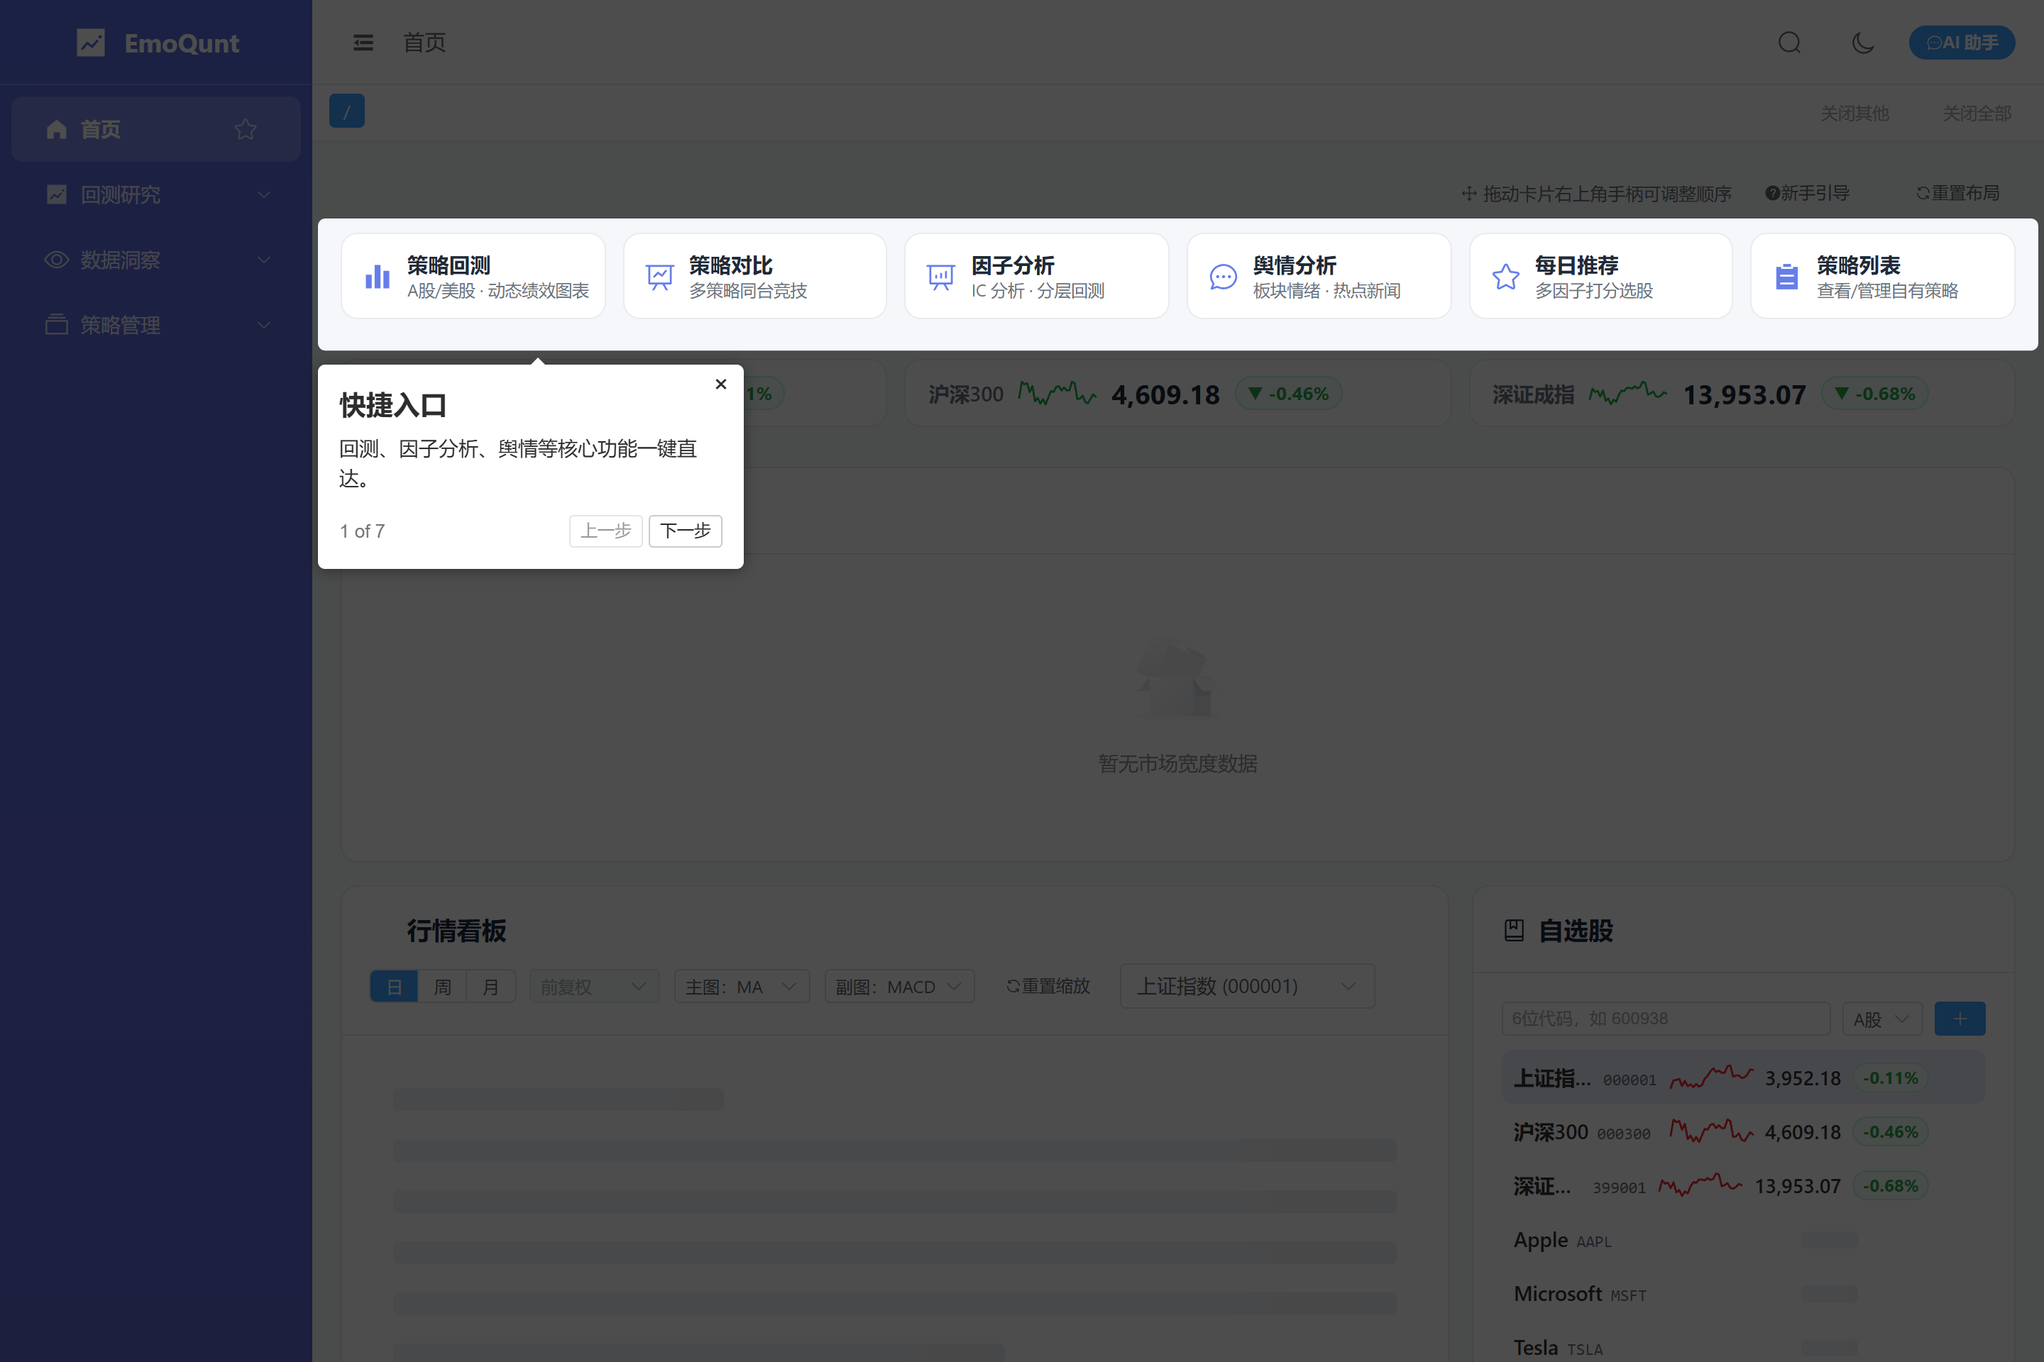
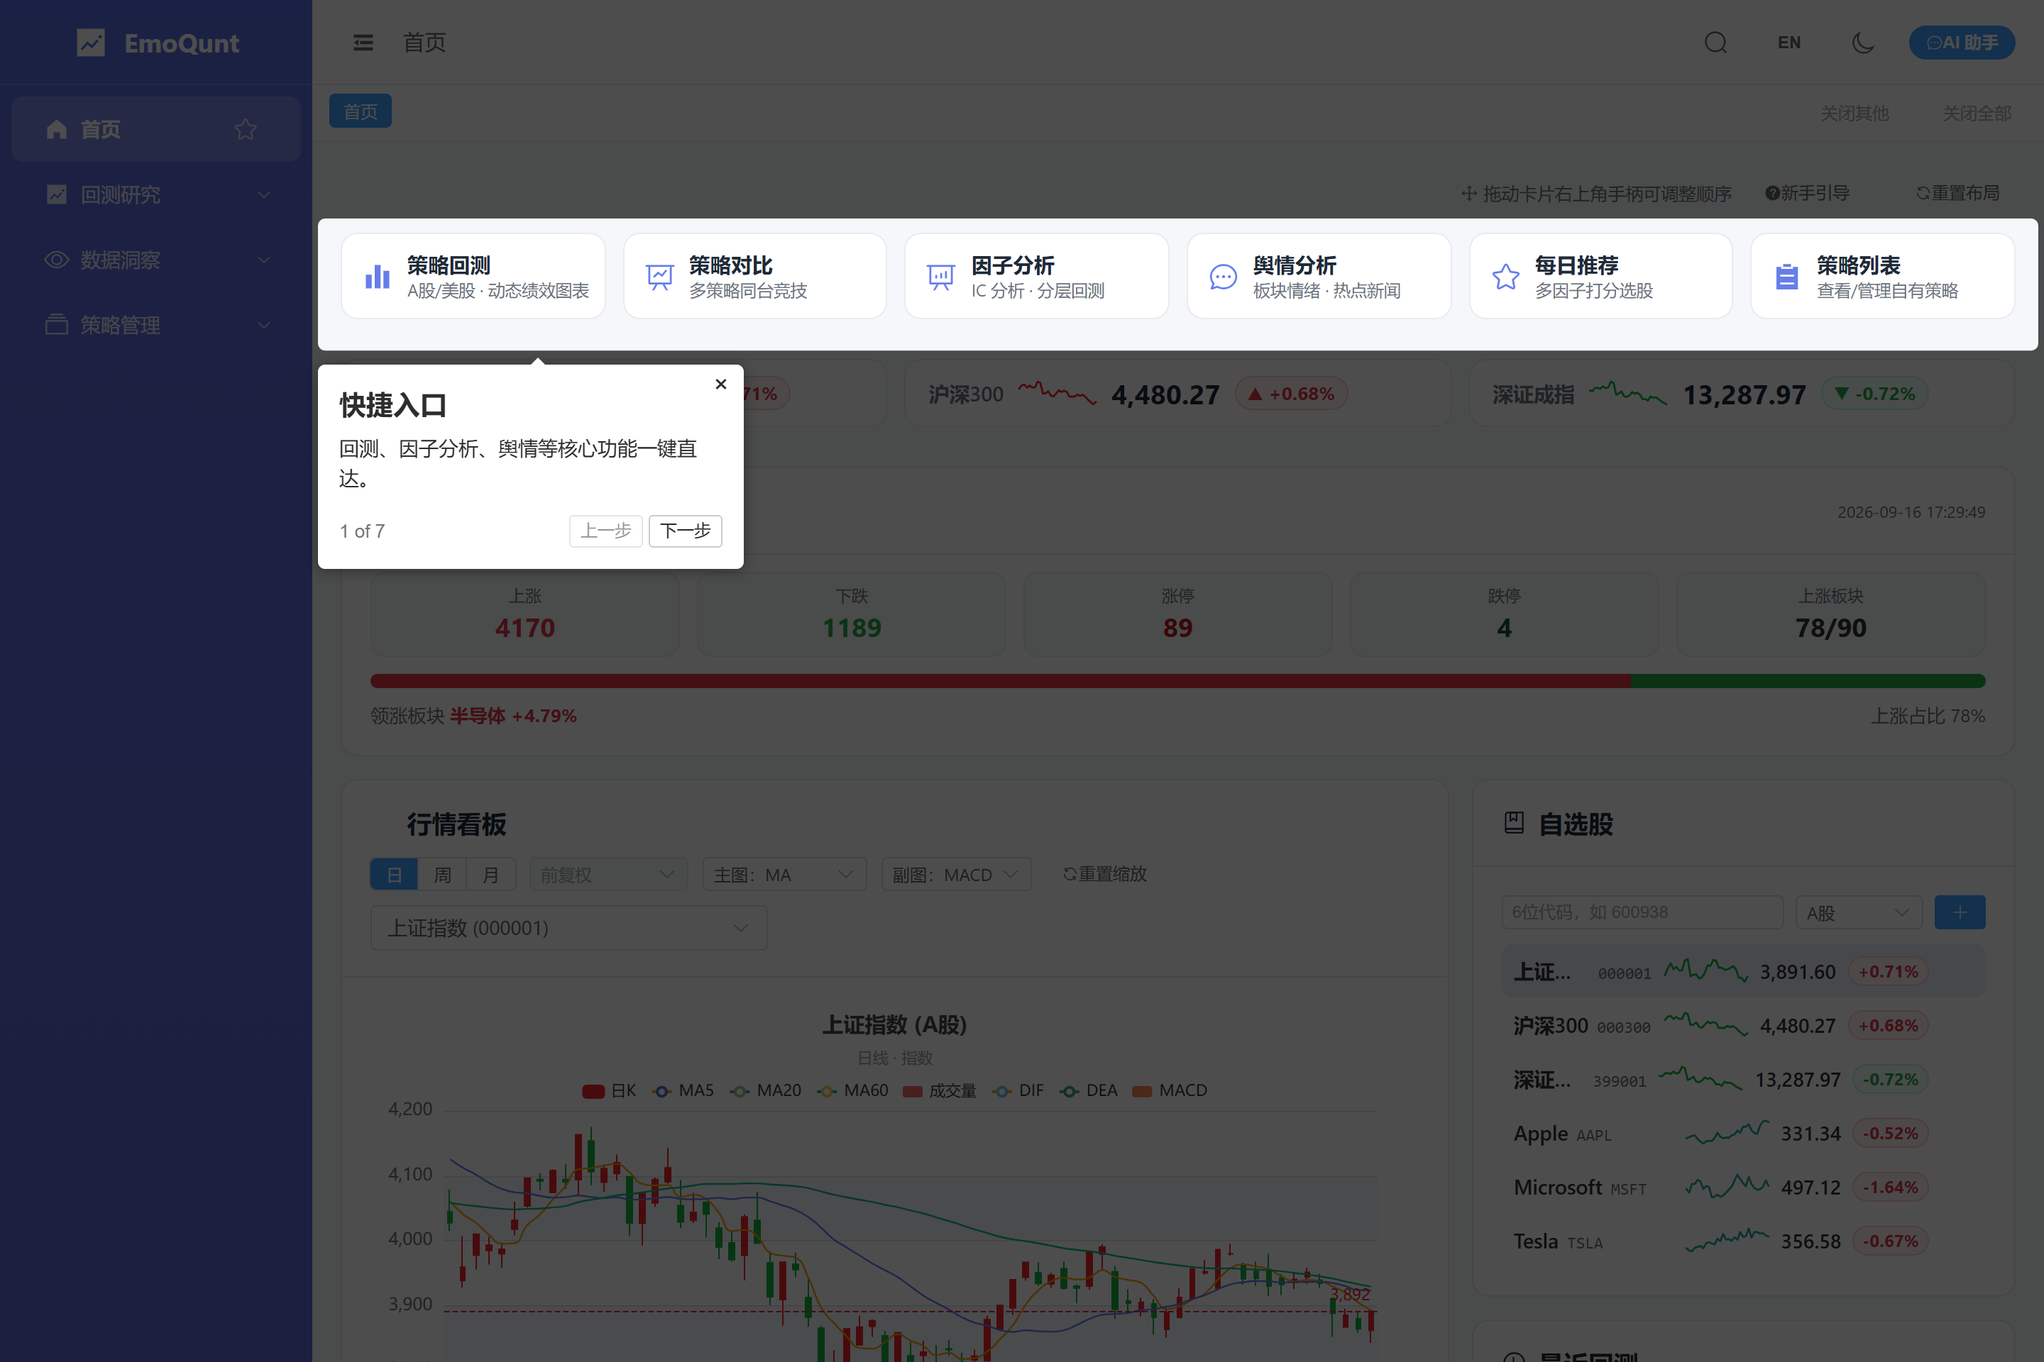
docs(readme): 界面双语后截图全量重拍——中文版覆盖原图（含顶栏语言切换新 UI），英文版新增 *-en.png 套图并切换引用；_capture.py 支持 --lang en（cookie 切语言 + 双语选择器字典），两版截图均以真实行情采集

diff --git a/docs/screenshots/_capture.py b/docs/screenshots/_capture.py
@@ -1,11 +1,15 @@
 """README 截图采集脚本：用系统 Edge 无头浏览器访问本机 FastAPI，截取新版界面。
 
 用法:
-    conda run -n qdt python docs/screenshots/_capture.py           # 全量（含真实回测）
-    conda run -n qdt python docs/screenshots/_capture.py --quick   # 仅首页/K线截图
+    conda run -n qdt python docs/screenshots/_capture.py             # 中文版全量（覆盖默认文件名）
+    conda run -n qdt python docs/screenshots/_capture.py --lang en   # 英文版全量（输出 *-en.png）
+    conda run -n qdt python docs/screenshots/_capture.py --quick     # 仅首页/K线截图
 
-说明：全新浏览器上下文首访 /spa/ 会弹出 driver.js 新手导览（7 步），
-脚本会先截导览，再逐步走完后关闭，保证后续截图无遮罩。
+说明：
+- 全新浏览器上下文首访 /spa/ 会弹出 driver.js 新手导览（7 步），脚本先截导览，
+  再逐步走完后关闭，保证后续截图无遮罩。
+- --lang en 通过 emoqunt_lang cookie 切换界面语言（SPA 首访读 cookie 定语言，
+  Jinja2 页面由中间件读同一 cookie），英文截图统一加 -en 后缀，供 README_EN 引用。
 """
 import sys
 from pathlib import Path
@@ -15,7 +19,50 @@ from playwright.sync_api import sync_playwright
 BASE = "http://127.0.0.1:8000"
 OUT = Path(__file__).parent
 VIEWPORT = {"width": 1440, "height": 960}
+LANG = "en" if "--lang" in sys.argv and "en" in sys.argv else "zh"
+SUFFIX = "-en" if LANG == "en" else ""
 QUICK = "--quick" in sys.argv
+
+# 双语 UI 文案（与 frontend/src/locales/*.ts 保持同步）
+T = {
+    "zh": {
+        "dark": "切换到暗色模式",
+        "light": "切换到亮色模式",
+        "tour_done": "完成",
+        "start_date": "开始日期",
+        "end_date": "结束日期",
+        "run_backtest": "运行回测",
+        "equity_ready": "累计收益曲线",
+        "trades_section": "买卖点标注",
+        "ai_button": "AI 助手",
+        "chat_placeholder": "输入问题，回车发送（Shift+回车换行）",
+        "tool_card_link": "在首页查看主图",
+        "period_week": "周",
+        "period_day": "日",
+    },
+    "en": {
+        "dark": "Switch to dark mode",
+        "light": "Switch to light mode",
+        "tour_done": "Done",
+        "start_date": "Start Date",
+        "end_date": "End Date",
+        "run_backtest": "Run Backtest",
+        "equity_ready": "Cumulative Return",
+        "trades_section": "Backtest K-line · Trade Markers",
+        "ai_button": "AI Assistant",
+        "chat_placeholder": "Ask a question, press Enter to send (Shift+Enter for a new line)",
+        "tool_card_link": "View main chart on Home",
+        "period_week": "W",
+        "period_day": "D",
+    },
+}[LANG]
+
+
+def shot(page, name: str, **kwargs) -> None:
+    """按语言后缀落盘并打印进度。"""
+    path = OUT / f"{name}{SUFFIX}.png"
+    page.screenshot(path=str(path), **kwargs)
+    print(f"{path.name} done")
 
 
 def dismiss_tour(page) -> None:
@@ -25,12 +72,11 @@ def dismiss_tour(page) -> None:
     except Exception:
         return  # 无导览（已看过）
     page.wait_for_timeout(600)
-    page.screenshot(path=str(OUT / "spa-home-tour.png"))
-    print("spa-home-tour.png done")
+    shot(page, "spa-home-tour")
     for _ in range(8):
         if not page.locator(".driver-popover").count():
             break
-        btn = page.locator(".driver-popover-buttons button", has_text="完成")
+        btn = page.locator(".driver-popover-buttons button", has_text=T["tour_done"])
         if btn.count():
             btn.click()
         else:
@@ -51,6 +97,9 @@ def main() -> int:
             browser = p.chromium.launch(headless=True)
 
         ctx = browser.new_context(viewport=VIEWPORT, device_scale_factor=2)
+        if LANG == "en":
+            # SPA 首访读 emoqunt_lang cookie 定语言；Jinja2 页面同 cookie 生效
+            ctx.add_cookies([{"name": "emoqunt_lang", "value": "en-US", "url": BASE}])
         page = ctx.new_page()
 
         # 1) SPA 首页（亮色，等行情/图表渲染；首访先处理新手导览）
@@ -58,34 +107,30 @@ def main() -> int:
         page.wait_for_timeout(6000)
         dismiss_tour(page)
         page.wait_for_timeout(8000)
-        page.screenshot(path=str(OUT / "spa-home-light.png"), full_page=True)
-        print("spa-home-light.png done")
+        shot(page, "spa-home-light", full_page=True)
 
         # 2) SPA 首页（暗色）
-        page.locator('button[title="切换到暗色模式"]').click()
+        page.locator(f'button[title="{T["dark"]}"]').click()
         page.wait_for_timeout(1500)
-        page.screenshot(path=str(OUT / "spa-home-dark.png"), full_page=True)
-        print("spa-home-dark.png done")
+        shot(page, "spa-home-dark", full_page=True)
         # 切回亮色，保持默认偏好
-        page.locator('button[title="切换到亮色模式"]').click()
+        page.locator(f'button[title="{T["light"]}"]').click()
         page.wait_for_timeout(800)
 
         # 2b) K 线看板特写：蜡烛 + MA 叠加 + 最新价虚线 + MACD 副图（上证指数走指数链）
         kline_card = page.locator(".kline-card")
         kline_card.scroll_into_view_if_needed()
         page.wait_for_timeout(800)
-        kline_card.screenshot(path=str(OUT / "spa-kline.png"))
-        print("spa-kline.png done")
+        shot(page, "spa-kline")
 
         # 2c) 切周线：服务端聚合 + 三窗格联动（选择器限定在 K 线工具栏内，
         #     避免与"自选分布"卡片的"当日涨跌"维度按钮歧义）
         kline_toolbar = page.locator(".kline-toolbar")
-        kline_toolbar.locator(".el-radio-button", has_text="周").first.click()
+        kline_toolbar.locator(".el-radio-button", has_text=T["period_week"]).first.click()
         page.wait_for_timeout(6000)
-        kline_card.screenshot(path=str(OUT / "spa-kline-week.png"))
-        print("spa-kline-week.png done")
+        shot(page, "spa-kline-week")
         # 切回日线，保持默认偏好
-        kline_toolbar.locator(".el-radio-button", has_text="日").first.click()
+        kline_toolbar.locator(".el-radio-button", has_text=T["period_day"]).first.click()
         page.wait_for_timeout(4000)
 
         if QUICK:
@@ -96,53 +141,48 @@ def main() -> int:
         # 3) SPA 回测：跑一段 2025 区间（外部数据源对该区间稳定），截结果页
         page.goto(f"{BASE}/spa/backtest", wait_until="domcontentloaded")
         page.wait_for_timeout(3000)
-        start = page.get_by_role("combobox", name="开始日期")
+        start = page.get_by_role("combobox", name=T["start_date"])
         start.click()
         start.fill("2025-03-01")
         start.press("Enter")
         page.wait_for_timeout(500)
-        end = page.get_by_role("combobox", name="结束日期")
+        end = page.get_by_role("combobox", name=T["end_date"])
         end.click()
         end.fill("2025-09-30")
         end.press("Enter")
         page.wait_for_timeout(800)
-        page.get_by_role("button", name="运行回测").click()
-        page.get_by_text("累计收益曲线").wait_for(timeout=180_000)
+        page.get_by_role("button", name=T["run_backtest"]).click()
+        page.get_by_text(T["equity_ready"]).wait_for(timeout=180_000)
         # 等回测 K 线（买卖点标注）加载完成
         page.wait_for_timeout(8000)
-        page.screenshot(path=str(OUT / "spa-backtest.png"), full_page=True)
-        print("spa-backtest.png done")
+        shot(page, "spa-backtest", full_page=True)
         # 买卖点标注特写（后端 trades 透传 + markPoint B/S + 成本均价 markLine）
-        trades_title = page.locator(".section-title", has_text="买卖点标注")
+        trades_title = page.locator(".section-title", has_text=T["trades_section"])
         trades_title.scroll_into_view_if_needed()
         page.wait_for_timeout(800)
-        page.screenshot(path=str(OUT / "spa-backtest-trades.png"))
-        print("spa-backtest-trades.png done")
+        shot(page, "spa-backtest-trades")
 
         # 4) SPA 策略列表
         page.goto(f"{BASE}/spa/strategies", wait_until="domcontentloaded")
         page.wait_for_timeout(2500)
-        page.screenshot(path=str(OUT / "spa-strategies.png"), full_page=True)
-        print("spa-strategies.png done")
+        shot(page, "spa-strategies", full_page=True)
 
         # 5) Jinja2 舆情分析（经典版前端）
         page.goto(f"{BASE}/sentiment", wait_until="domcontentloaded")
         page.wait_for_timeout(6000)
-        page.screenshot(path=str(OUT / "web-sentiment.png"), full_page=True)
-        print("web-sentiment.png done")
+        shot(page, "web-sentiment", full_page=True)
 
         # 6) AI 助手工具结果卡片（Generative UI；需 .env 配置 LLM API Key，失败不影响其余截图）
         try:
             page.goto(f"{BASE}/spa/", wait_until="domcontentloaded")
             page.wait_for_timeout(5000)
-            page.get_by_role("button", name="AI 助手").click()
-            box = page.get_by_role("textbox", name="输入问题，回车发送（Shift+回车换行）")
-            box.fill("帮我看看 000300 最近行情")
+            page.get_by_role("button", name=T["ai_button"]).click()
+            box = page.get_by_role("textbox", name=T["chat_placeholder"])
+            box.fill("帮我看看 000300 最近行情" if LANG == "zh" else "Show me the recent quote for 000300")
             box.press("Enter")
-            page.wait_for_selector("text=在首页查看主图", timeout=90_000)
+            page.wait_for_selector(f"text={T['tool_card_link']}", timeout=90_000)
             page.wait_for_timeout(2500)
-            page.screenshot(path=str(OUT / "spa-chat-tool-card.png"))
-            print("spa-chat-tool-card.png done")
+            shot(page, "spa-chat-tool-card")
         except Exception as e:
             print(f"spa-chat-tool-card skipped: {e}")
 

diff --git a/README_EN.md b/README_EN.md
@@ -24,28 +24,28 @@ management — with industry sentiment factors and realistic trading costs. Ship
 
 ## 🖼 Screenshots
 
-> Captured automatically via `conda run -n qdt python docs/screenshots/_capture.py` against the local source stack; all shots are from the 2026-08 round-4 iteration.
+> Captured automatically via `conda run -n qdt python docs/screenshots/_capture.py --lang en` against the local source stack (the `--lang en` flag switches the UI to English and emits the `*-en.png` shots below; run it without the flag to regenerate the Chinese shots for the Chinese README). The AI tool-card shot is kept from the Chinese UI — it requires a configured LLM key and its content is data-bound.
 
 <table>
   <tr>
     <td colspan="2" align="center">
-      <img src="docs/screenshots/spa-home-light.png" alt="SPA home dashboard" width="100%"/><br/>
+      <img src="docs/screenshots/spa-home-light-en.png" alt="SPA home dashboard" width="100%"/><br/>
       <b>SPA home dashboard</b> — 10 draggable cards: quick entries · index strip (sparklines) · market breadth · K-line board · sector heatmap · top sectors · news source filter · recommendations · allocation donut · data-source heartbeats + sentiment calendar
     </td>
   </tr>
   <tr>
     <td width="50%" valign="top">
-      <img src="docs/screenshots/spa-kline.png" alt="K-line board" width="100%"/><br/>
+      <img src="docs/screenshots/spa-kline-en.png" alt="K-line board" width="100%"/><br/>
       <b>K-line board</b> — candles + MA/BOLL overlays + MACD/KDJ/RSI sub-panels + last-price line + month-boundary ticks, day/week/month &amp; adjust switching
     </td>
     <td width="50%" valign="top">
-      <img src="docs/screenshots/spa-backtest-trades.png" alt="Backtest trade markers" width="100%"/><br/>
+      <img src="docs/screenshots/spa-backtest-trades-en.png" alt="Backtest trade markers" width="100%"/><br/>
       <b>Backtest K-line trade markers</b> — backend <code>trades</code> passthrough, B/S arrows + weighted average-cost line, aligned with the backtest date range
     </td>
   </tr>
   <tr>
     <td width="50%" valign="top">
-      <img src="docs/screenshots/spa-home-tour.png" alt="First-visit tour" width="100%"/><br/>
+      <img src="docs/screenshots/spa-home-tour-en.png" alt="First-visit tour" width="100%"/><br/>
       <b>First-visit tour</b> — driver.js, 7 steps; shown once, replayable
     </td>
     <td width="50%" valign="top">
@@ -55,27 +55,27 @@ management — with industry sentiment factors and realistic trading costs. Ship
   </tr>
   <tr>
     <td width="50%" valign="top">
-      <img src="docs/screenshots/spa-home-dark.png" alt="Dark mode" width="100%"/><br/>
+      <img src="docs/screenshots/spa-home-dark-en.png" alt="Dark mode" width="100%"/><br/>
       <b>Dark mode</b> — persists across reloads
     </td>
     <td width="50%" valign="top">
-      <img src="docs/screenshots/spa-backtest.png" alt="Backtest result" width="100%"/><br/>
+      <img src="docs/screenshots/spa-backtest-en.png" alt="Backtest result" width="100%"/><br/>
       <b>Backtest result</b> — metric cards + dynamic equity/drawdown/return charts + risk panel
     </td>
   </tr>
   <tr>
     <td width="50%" valign="top">
-      <img src="docs/screenshots/spa-kline-week.png" alt="Weekly K-line" width="100%"/><br/>
+      <img src="docs/screenshots/spa-kline-week-en.png" alt="Weekly K-line" width="100%"/><br/>
       <b>Weekly K-line</b> — server-side aggregation, three linked panes
     </td>
     <td width="50%" valign="top">
-      <img src="docs/screenshots/spa-strategies.png" alt="Strategy list" width="100%"/><br/>
+      <img src="docs/screenshots/spa-strategies-en.png" alt="Strategy list" width="100%"/><br/>
       <b>Strategy list</b>
     </td>
   </tr>
   <tr>
     <td colspan="2" align="center">
-      <img src="docs/screenshots/web-sentiment.png" alt="Sentiment analysis" width="100%"/><br/>
+      <img src="docs/screenshots/web-sentiment-en.png" alt="Sentiment analysis" width="100%"/><br/>
       <b>Classic sentiment analysis</b> (Jinja2, <code>/sentiment</code>)
     </td>
   </tr>
@@ -109,6 +109,12 @@ management — with industry sentiment factors and realistic trading costs. Ship
 
 ### 🧾 Classic Jinja2 frontend (`/`)
 - `base.html` + `app.css` design tokens, Bootstrap 5.3 + Font Awesome 6; 8 pages; the backtest form remembers your last input
+
+### 🌍 Bilingual UI (Chinese/English)
+- **Both frontends fully bilingual**: one-click language toggle in the SPA header and the Jinja2 navbar (中文 ⇄ English); the SPA persists to localStorage, the classic frontend to the `emoqunt_lang` cookie, and the SPA mirrors its choice into the cookie so the two frontends share one preference
+- **Zero-dependency i18n**: the SPA uses a hand-rolled engine (`frontend/src/locales/`, per-view zh/en catalogs + a reactive `t()`); the backend uses `src/utils/i18n.py` (per-request ContextVar + `src/utils/i18n_data/` catalogs), consumed by Jinja2 templates through a global `t()`
+- **Backend messages translate too**: form validation errors, strategy CRUD errors, recommendation reasons, agent tool notes, and matplotlib chart labels all follow the request language; the AI assistant replies in English under the English locale via a localized system prompt
+- **Boundary**: data itself (quotes / sectors / news titles from Chinese sources such as akshare) and strategy descriptions keep their original language; backtest metric JSON keys (`总收益率` etc.) are the API contract and are translated only at display time
 
 ---
 

diff --git a/README.md b/README.md
@@ -23,7 +23,7 @@
 
 ## 🖼 页面预览
 
-> 截图由 `conda run -n qdt python docs/screenshots/_capture.py` 在本机源码服务上自动采集，为 2026-08 第四轮迭代后界面。
+> 截图由 `conda run -n qdt python docs/screenshots/_capture.py` 在本机源码服务上自动采集，为 2026-09 双语版界面；加 `--lang en` 可采集英文界面（输出 `*-en.png`，供 [README_EN](README_EN.md) 引用）。
 
 <table>
   <tr>
@@ -108,6 +108,12 @@
 
 ### 🧾 Jinja2 经典版（`/`）
 - `base.html` + `app.css` 设计令牌，Bootstrap 5.3 + Font Awesome 6；8 个页面；回测表单记忆上次输入
+
+### 🌍 双语界面（中文/English）
+- **两套前端全量双语**：SPA 顶栏与 Jinja2 导航栏各有一键语言切换（中文 ⇄ English），SPA 存 localStorage、经典版存 `emoqunt_lang` cookie，SPA 切换时同步写 cookie，两套前端语言偏好互通
+- **零依赖 i18n**：SPA 为手写引擎（`frontend/src/locales/`，按视图分模块的 zh/en 词表 + 响应式 `t()`）；后端为 `src/utils/i18n.py`（ContextVar 请求语言 + `src/utils/i18n_data/` 词表），Jinja2 模板经全局 `t()` 渲染
+- **后端消息同步翻译**：表单校验错误、策略 CRUD 错误、推荐理由、Agent 工具提示、matplotlib 图表标签均按请求语言返回；AI 助手在英文模式下使用英文系统提示词回复
+- **边界说明**：行情/板块/新闻标题等**数据本身**（来自 akshare 等中文数据源）与策略描述保持原语言；回测指标 JSON 键名（`总收益率` 等）是 API 契约，仅展示层翻译
 
 ---
 
